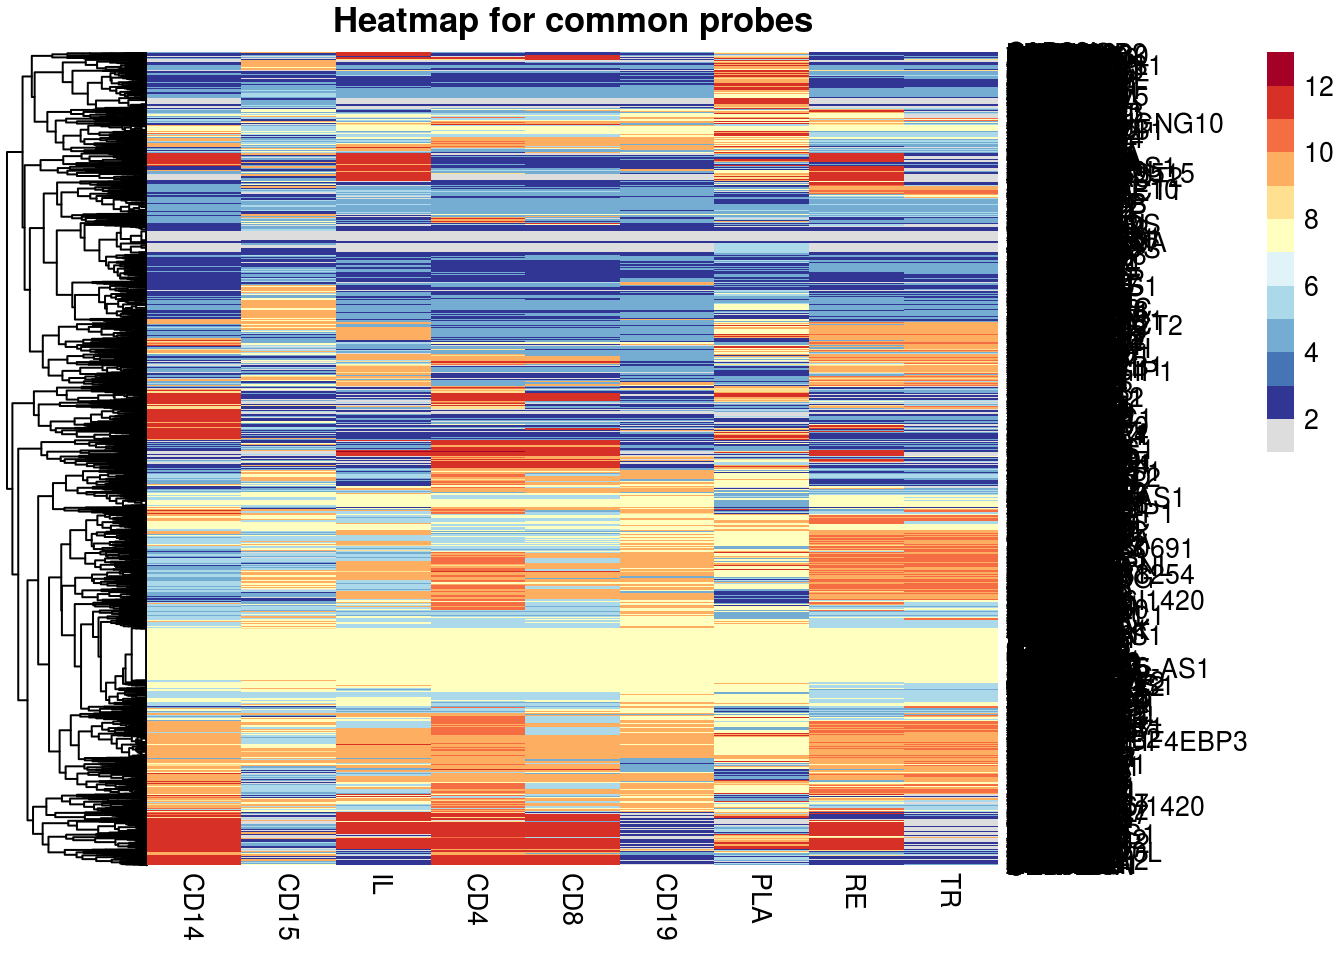
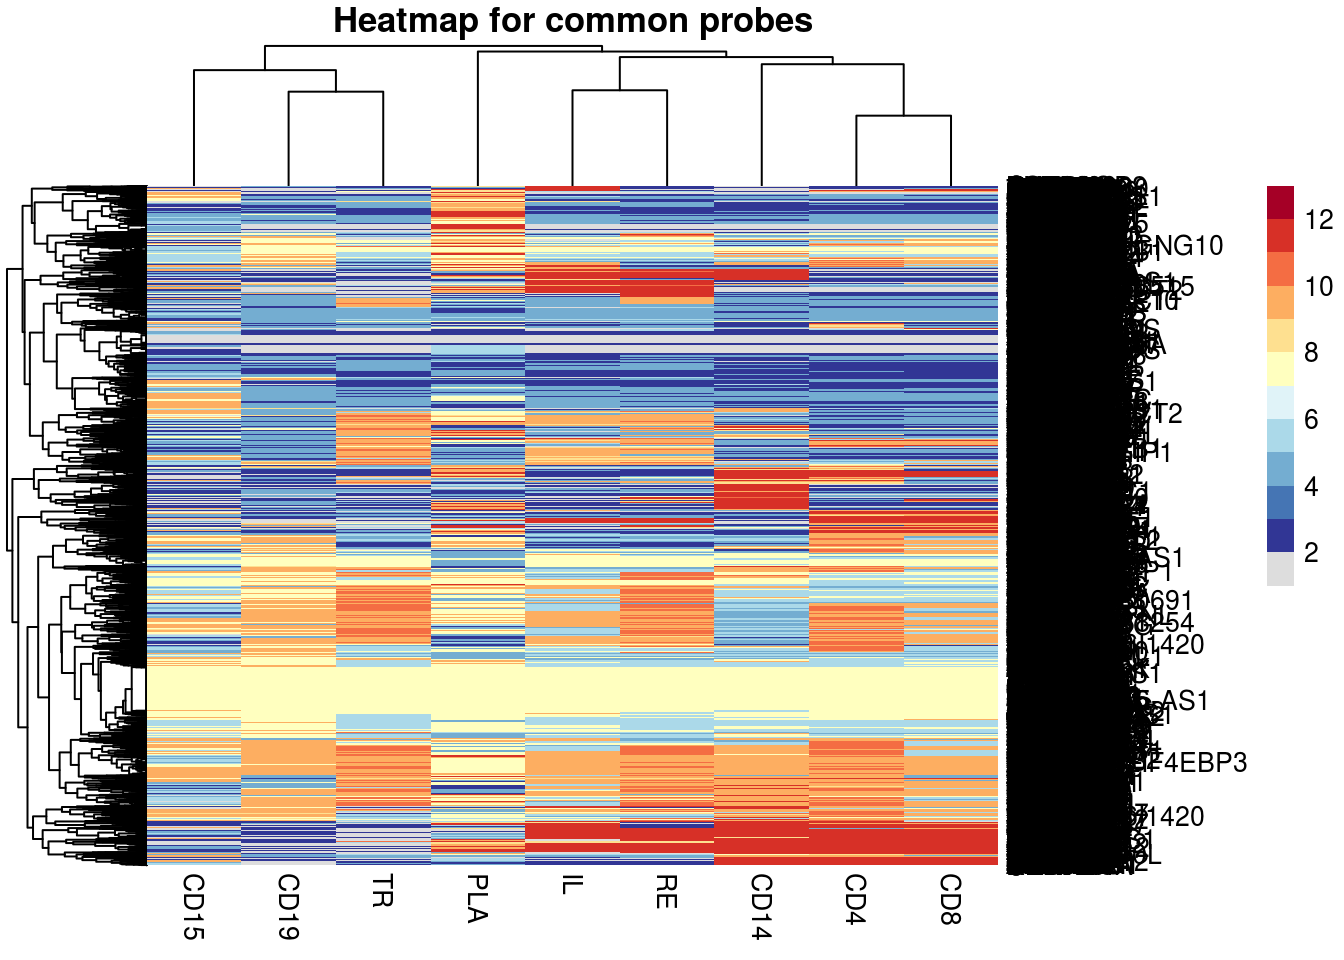
More stuff.

diff --git a/2019/02/20/log-weeks-1-3/index.html b/2019/02/20/log-weeks-1-3/index.html
@@ -111,6 +111,7 @@ head(compare_df_mat)</code></pre>
 <h2>Visualisation</h2>
 <p>Using this data we generated a heatmap.</p>
 <p><img src="/post/2019-02-20-log-weeks-1-3_files/figure-html/mdi_1_heatmap-1.png" width="672" /></p>
+<p>Notice that we have clusters of datasets; CD4, CD8 and CD14, RE and IL and then CD15, CD19 and TR. Platelets are outside of any clusters.</p>
 <p>There are 14 clusters present here; to enable comparison we went for a wider colour palette. This is the reason for the garishness of this heatplot. There is appears to have lower similarity than one might expect, particularly considering the selection of data - we only include the probes that are sufficiently expressed in each cell type to register for measurement. Possibly this is an artifact of not considering label-flipping.</p>
 <div id="investigate-subsections" class="section level3">
 <h3>Investigate subsections</h3>
@@ -122,11 +123,11 @@ head(compare_df_mat)</code></pre>
 <h3>Investigate different combinations</h3>
 <p>Please note that these following heatmaps have <strong>unique</strong> clusterings and have not inherited the clustering of the original heatmap unlike those preceding this section.</p>
 <p><img src="/post/2019-02-20-log-weeks-1-3_files/figure-html/no_platelets-1.png" width="672" /></p>
-<p>We consider only four most similar datasets, CD14, CD4, CD8, RE and TR.</p>
+<p>We consider only the most similar datasets based on the clustering of datasets: CD4, CD8, CD14, RE and IL.</p>
 <p><img src="/post/2019-02-20-log-weeks-1-3_files/figure-html/sim_heatmaps-1.png" width="672" /></p>
 <p>Out of curiousity we check the clustering and heatmap for the excluded datasets.</p>
 <p><img src="/post/2019-02-20-log-weeks-1-3_files/figure-html/dis_heatmaps-1.png" width="672" /></p>
-<p>This is sligthly more coherent than our first heatmap where we considered all datasets at once - this suggests that trying to process the output of all 9 datasets at once is not optimal and is in itself a non-trivial task (particulalrly if label-flipping cannot be ignored).</p>
+<p>These are more coherent than our first heatmap where we considered all datasets at once - this suggests that trying to process the output of all 9 datasets at once is not optimal and is in itself a non-trivial task (particulalrly if label-flipping cannot be ignored).</p>
 </div>
 </div>
 <div id="including-all-probes" class="section level2">
@@ -145,6 +146,7 @@ row.names(compare_df_all_mat) &lt;- compare_df_all$V1</code></pre>
 <p>The grey areas are absent genes for the dataset in question. This is too dense (being some 18,517 observations long), so we consider subsets.</p>
 <p><img src="/post/2019-02-20-log-weeks-1-3_files/figure-html/mox_pheatmap-1.png" width="672" /></p>
 <p>Unfortunately too many of the MOX genes are absent from too many datasets to read to significantly into these results.</p>
+<p>Investigate higher granularity.</p>
 <p><img src="/post/2019-02-20-log-weeks-1-3_files/figure-html/mdi_2_granularity-1.png" width="672" /><img src="/post/2019-02-20-log-weeks-1-3_files/figure-html/mdi_2_granularity-2.png" width="672" /><img src="/post/2019-02-20-log-weeks-1-3_files/figure-html/mdi_2_granularity-3.png" width="672" /><img src="/post/2019-02-20-log-weeks-1-3_files/figure-html/mdi_2_granularity-4.png" width="672" /><img src="/post/2019-02-20-log-weeks-1-3_files/figure-html/mdi_2_granularity-5.png" width="672" /></p>
 <p>Recalling the clustering of datasets from the initial heatmap, we investigate these groupings. We inspect different combinations trying the CD combinations and the intestinal combinations.</p>
 <p><img src="/post/2019-02-20-log-weeks-1-3_files/figure-html/pheatmap_combinations_mdi_2-1.png" width="672" /><img src="/post/2019-02-20-log-weeks-1-3_files/figure-html/pheatmap_combinations_mdi_2-2.png" width="672" /></p>
